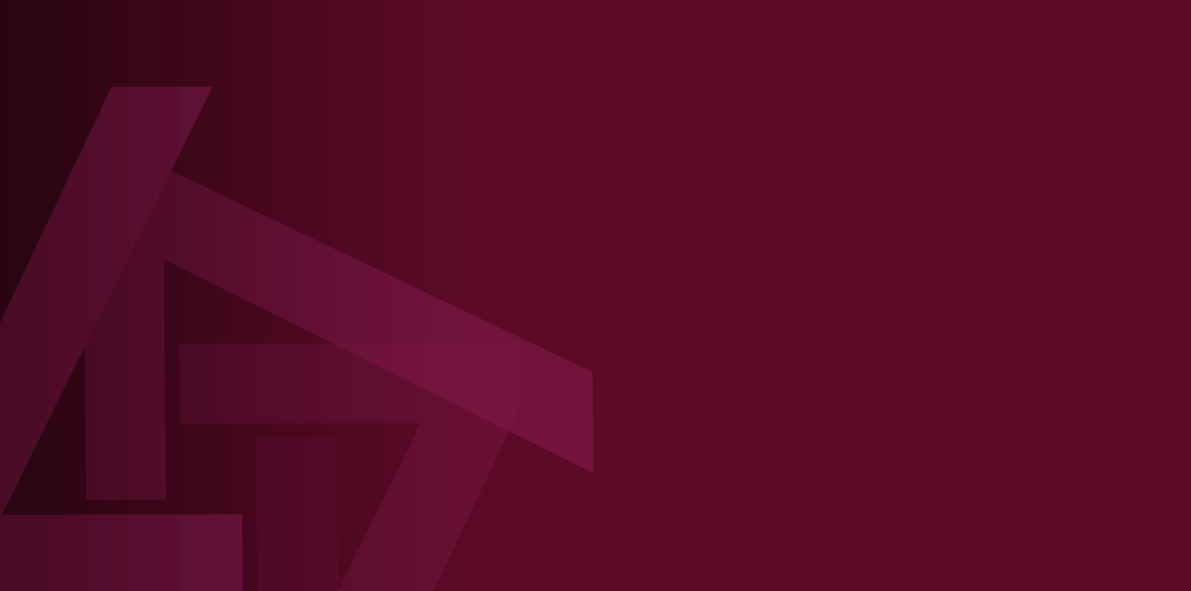
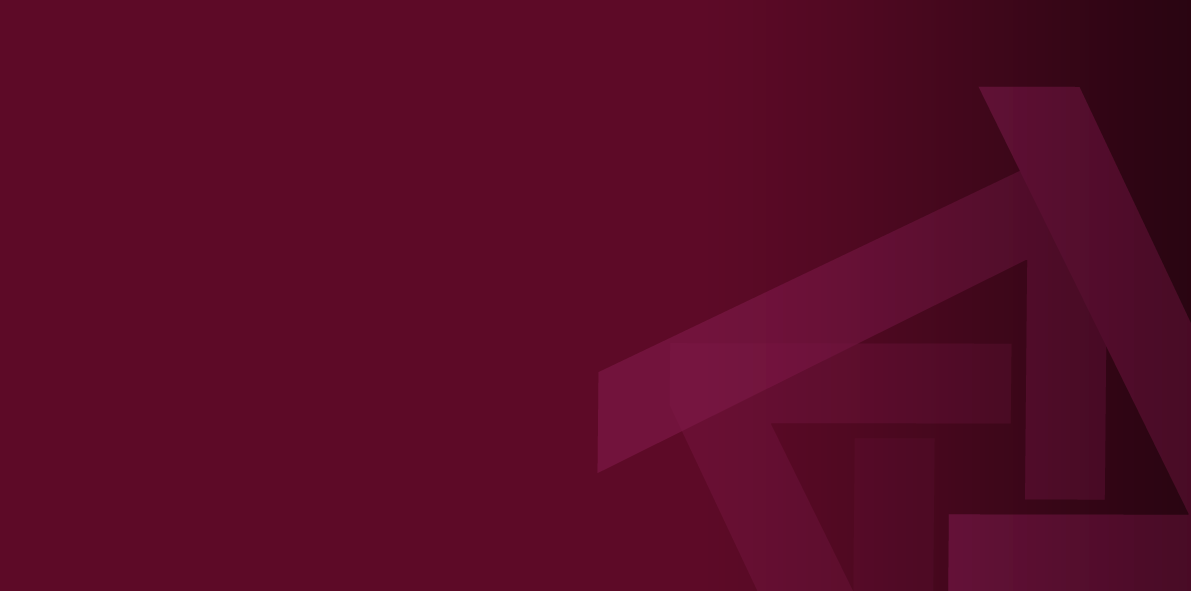
keynote-parts was added

diff --git a/source/assets/css/style.css b/source/assets/css/style.css
@@ -139,7 +139,7 @@ a.navbar-brand:hover{
   background: #260410;
 }
 .section-cell{
-  height:555px;
+  height:540px;
   color:#ffffff;
   border-left: 1px solid #ffffff;
   border-right: 1px solid #ffffff;
@@ -163,8 +163,11 @@ a.navbar-brand:hover{
 .inner-thema{
   background: url('../img/back2.png') no-repeat right;
 }
+.inner-keynote{
+  background: url('../img/back1.png') no-repeat left;
+}
 .inner-access{
-  background: url('../img/back3.png') no-repeat left;
+  background: url('../img/back3.png') no-repeat right;
 }
 .section-cell-inner h1{
   font-size: 20px;
@@ -354,8 +357,20 @@ img.userprofileimg{
 .topTicketBtnforMobile{
   display: none;
 }
+.keynote-thumb{
+  width: 60px;
+  height: 60px;
+  border-radius: 50%;
+  box-shadow:0px 0px 3px 1px #3b3b39;
+  -moz-box-shadow:0px 0px 3px 1px #3b3b39;
+  -webkit-box-shadow:0px 0px 3px 1px #3b3b39;
+  margin-bottom: 10px;
+}
+.keytalker{
+  margin: 10px 0 20px 0;
+}
 
-@media (max-width: 970px) {
+@media (max-width: 1200px) {
   .section-cell{
     height: 100%;
   }
@@ -393,6 +408,9 @@ img.userprofileimg{
   .inner-thema{
     background-size:cover;
   }
+  .inner-keynote{
+    background-size:cover;
+  }
   .inner-access{
     background-size:cover;
   }
@@ -400,5 +418,9 @@ img.userprofileimg{
 @media (max-width: 750px) {
   .mobile_show{
     display: inline;
+  }
+  .keynote-thumb{
+    width: 100px;
+    height: 100px;
   }
 }
